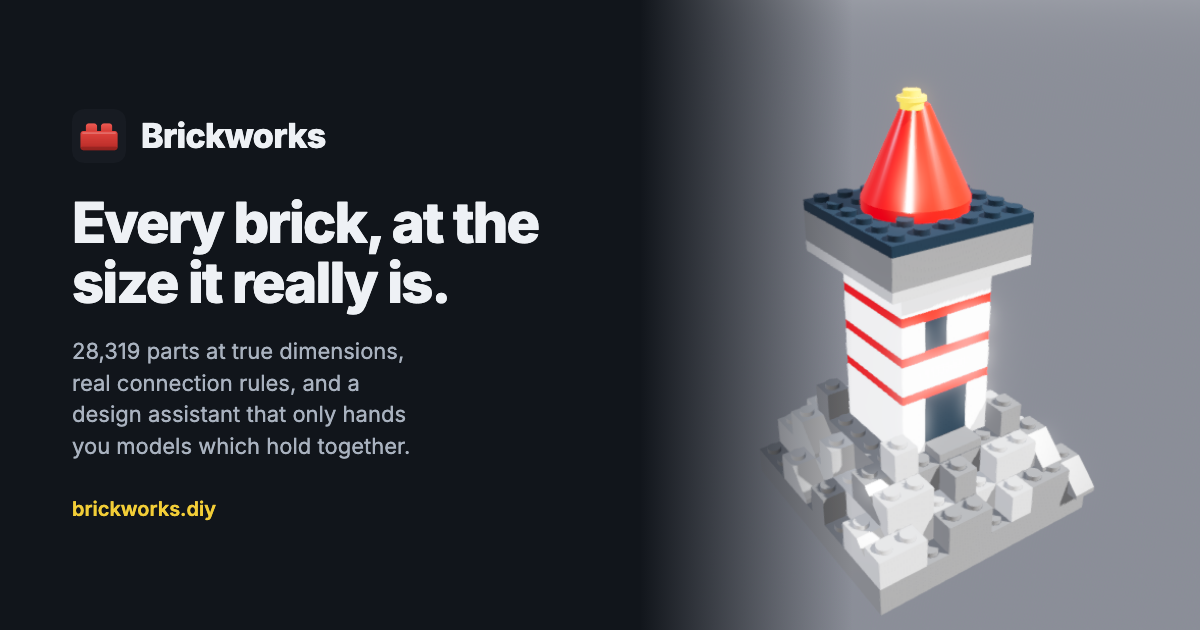
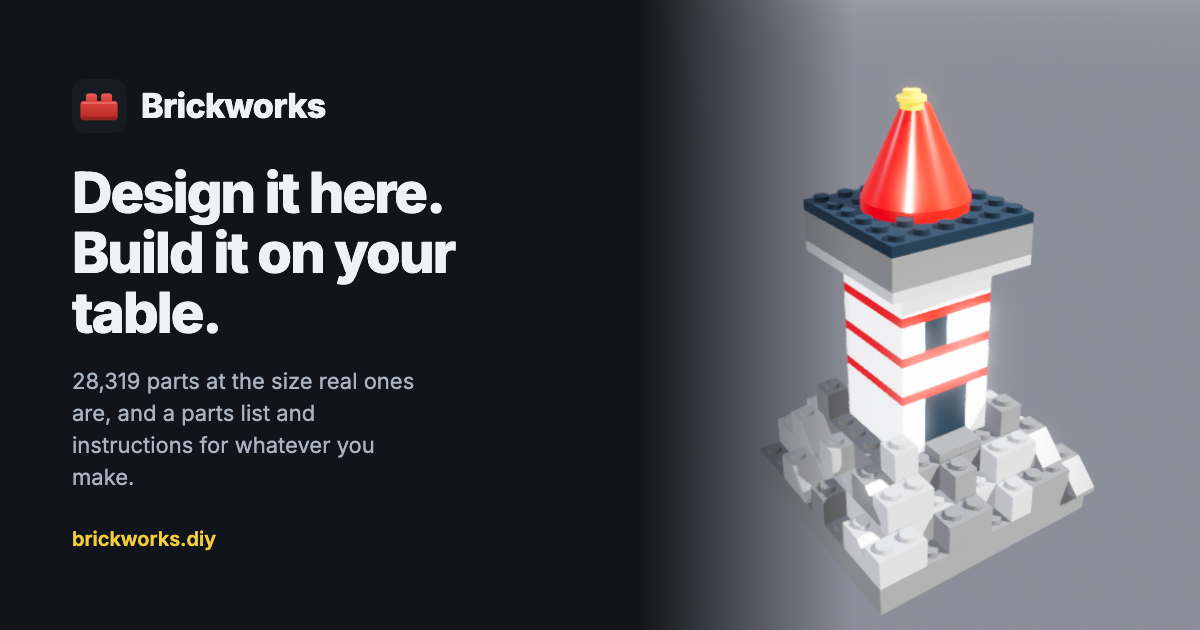
Say what you leave with, not what the data is
"Every brick, at the size it really is" described the library. True, and
the kind of true that matters to whoever built it rather than to anyone
arriving — a person does not want a catalogue, they want the thing they
were imagining, on a table, in bricks.

So the line is the arc: design it here, build it on your table. The
exactness is still the proof and still on the page; it has just stopped
being the promise.

Also removing three scratch probes that a broad `git add` swept up while
review agents were writing them. Nothing referenced them — check.sh
names its probes one by one — and they were never meant to be kept.

Changed region(s): [[0.0617, 0.2714, 0.4625, 0.8746], [0.0617, 0.1508, 0.2775, 0.2413]]

diff --git a/web/index.html b/web/index.html
@@ -12,16 +12,16 @@
 <meta charset="utf-8">
 <meta name="viewport" content="width=device-width, initial-scale=1, viewport-fit=cover">
 <meta name="color-scheme" content="dark light">
-<title>Brickworks — every brick, at the size it really is</title>
-<meta name="description" content="A brick construction system with every modelled part at true size, real connection rules, and a design assistant that only produces models that hold together.">
+<title>Brickworks — design it here, build it on your table</title>
+<meta name="description" content="Design in bricks and leave with something you can build: 28,319 parts at true size, a design assistant that only produces models which hold together, and printable instructions with a parts list.">
 <link rel="icon" href="/icon.svg" type="image/svg+xml">
 <link rel="icon" href="/favicon-32.png" sizes="32x32" type="image/png">
 <link rel="apple-touch-icon" href="/favicon-180.png">
 <link rel="manifest" href="/site.webmanifest">
 <meta name="theme-color" content="#11151b">
 
-<meta property="og:title" content="Brickworks — every brick, at the size it really is">
-<meta property="og:description" content="28,319 parts at true dimensions, real connection rules, and a design assistant that only hands you models which hold together.">
+<meta property="og:title" content="Brickworks — design it here, build it on your table">
+<meta property="og:description" content="Describe what you want or place it brick by brick, then leave with a parts list and printable instructions. 28,319 parts at the size real ones are.">
 <meta property="og:type" content="website">
 <meta property="og:url" content="https://brickworks.diy">
 <!-- Absolute, and a real file. A card reader fetches this on its own
@@ -30,11 +30,11 @@
 <meta property="og:image" content="https://brickworks.diy/share.png">
 <meta property="og:image:width" content="1200">
 <meta property="og:image:height" content="630">
-<meta property="og:image:alt" content="A red and white brick lighthouse beside the words: every brick, at the size it really is.">
+<meta property="og:image:alt" content="A red and white brick lighthouse beside the words: design it here, build it on your table.">
 <meta property="og:site_name" content="Brickworks">
 <meta name="twitter:card" content="summary_large_image">
 <meta name="twitter:title" content="Brickworks">
-<meta name="twitter:description" content="28,319 parts at true dimensions, and a design assistant that only hands you models which hold together.">
+<meta name="twitter:description" content="Describe what you want or place it brick by brick, then leave with a parts list and instructions you can build from.">
 <meta name="twitter:image" content="https://brickworks.diy/share.png">
 <style>
 :root {
@@ -307,11 +307,11 @@ footer p { margin: 0 0 8px; max-width: 76ch; }
 
 <main>
 	<div class="wrap hero">
-		<h1>Every brick, at the size it really is.</h1>
+		<h1>Design it here. Build it on your table.</h1>
 		<p class="lede">
-			A construction system with every modelled part at true dimensions,
-			real connection rules, and a design assistant that only hands you
-			models which actually hold together.
+			28,319 parts at the size real ones are. Describe what you want or
+			place it brick by brick, then leave with a parts list and printable
+			instructions — because a model you cannot build is a picture.
 		</p>
 		<div class="actions">
 			<a class="cta" href="/app">Start building</a>
